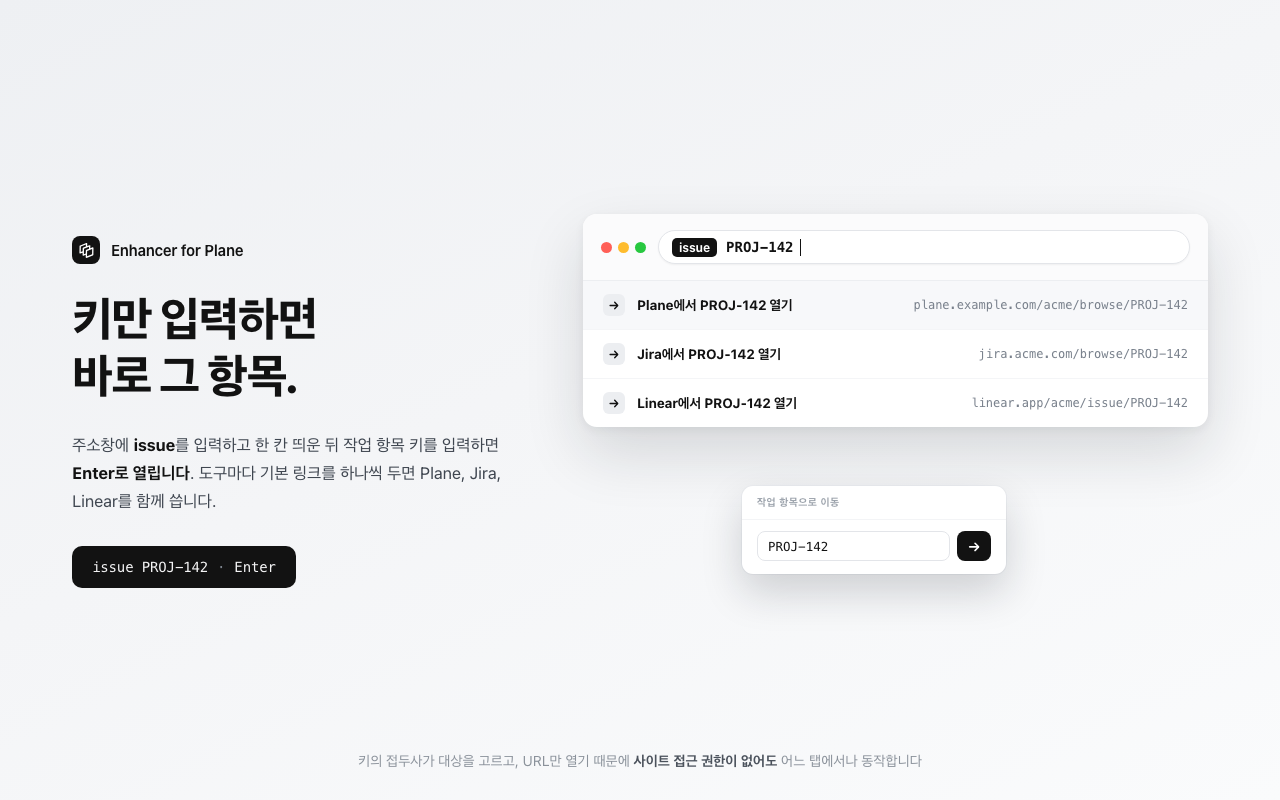
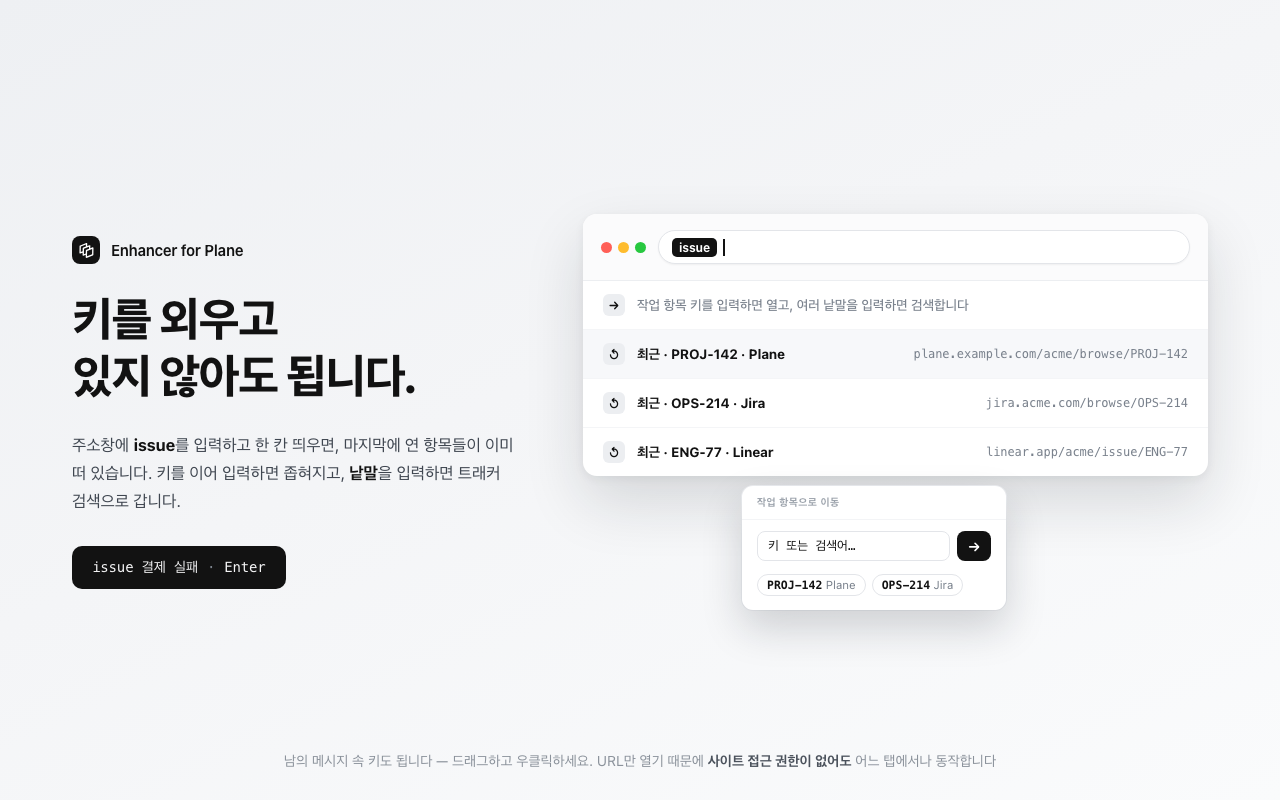
Redraw the quick open capture around what it actually offers
The store screenshots go out with 1.8.0 whether or not they are ever
photographed, so they have to describe the product as it is. The quick
open one did not, in a way I got wrong last turn: I said the copy-reference
capture was stale and it is not — its menu matches the live one row for
row. The quick open capture was the stale one, and worse than outdated. It
quoted "Open PROJ-142 in Plane", a string the extension stopped saying when
the omnibox rows were relabelled: it is "Open · PROJ-142 · Plane" now.

It also sold the weakest version of the feature — type a key you already
know, get three targets — while the release's three additions to that
exact surface went unmentioned anywhere in the set.

So the frame is now the moment the recents exist for: the keyword up, the
cursor waiting, nothing typed. Chrome draws the default suggestion first,
which is the hint — the one row that says a key opens and words search —
and under it the recent rows, exactly what recentRows() returns there. Both
quoted from the catalogue rather than written for the poster. The popup
panel grew its chips because the popup grew them. The pill shows the search
input instead of repeating the frame, and right-click gets the caption.

Along the way: omniboxRecent's second placeholder was named TITLE and
receives the target's name — the code passes [r.key, r.name]. Positional
substitution means it worked, but a translator reordering on that name
would be reordering on a lie. It is NAME now.
[…]

diff --git a/store-assets/screenshot-1-open.html b/store-assets/screenshot-1-open.html
@@ -99,6 +99,14 @@
     color: #121212;
     font-family: ui-monospace, SFMono-Regular, Menlo, monospace;
   }
+  /* The popup carries the same list, so the poster shows it there too. */
+  .chips { display: flex; flex-wrap: wrap; gap: 6px; padding: 0 15px 14px; }
+  .chip {
+    font-size: 11.5px; color: #79818c; border: 1px solid #e3e5e9;
+    border-radius: 999px; padding: 3px 9px;
+  }
+  .chip b { color: #121212; font-weight: 650; font-family: ui-monospace, SFMono-Regular, Menlo, monospace; }
+  .sugg .row.hint .sname { color: #79818c; font-weight: 500; }
   .jumpgo {
     width: 34px;
     height: 30px;
@@ -117,33 +125,40 @@
   <div class="brand"></div>
   <h1 data-t="head"></h1>
   <p class="lede" data-t="lede"></p>
-  <div class="pill">issue PROJ-142<span class="dot">·</span>Enter</div>
+  <div class="pill"><span data-t="pill"></span><span class="dot">·</span>Enter</div>
 </div>
 
 <div class="win">
   <div class="bar">
     <div class="omni">
       <span class="kw">issue</span>
-      <span class="typed">PROJ-142</span>
       <span class="caret"></span>
     </div>
   </div>
   <div class="page">
     <div class="sugg">
-      <div class="row on">
+      <!-- Chrome draws the default suggestion first, and with nothing typed that is the
+           hint — the one row that says a key opens and words search. Quoted from
+           omniboxHint. The rows under it are recentRows(), which is what the extension
+           offers at exactly this moment: the keyword is up and the cursor is waiting. -->
+      <div class="row hint">
         <span class="go">→</span>
+        <span class="sname" data-t="hint"></span>
+      </div>
+      <div class="row on">
+        <span class="go">↺</span>
         <span class="sname" data-t="s1"></span>
         <span class="surl">plane.example.com/acme/browse/PROJ-142</span>
       </div>
       <div class="row">
-        <span class="go">→</span>
+        <span class="go">↺</span>
         <span class="sname" data-t="s2"></span>
-        <span class="surl">jira.acme.com/browse/PROJ-142</span>
+        <span class="surl">jira.acme.com/browse/OPS-214</span>
       </div>
       <div class="row">
-        <span class="go">→</span>
+        <span class="go">↺</span>
         <span class="sname" data-t="s3"></span>
-        <span class="surl">linear.app/acme/issue/PROJ-142</span>
+        <span class="surl">linear.app/acme/issue/ENG-77</span>
       </div>
     </div>
   </div>
@@ -152,8 +167,12 @@
 <div class="panel pop">
   <div class="head" data-t="popLabel"></div>
   <div class="jumprow">
-    <span class="jumpkey">PROJ-142</span>
+    <span class="jumpkey" data-t="jumpPh"></span>
     <span class="jumpgo">→</span>
+  </div>
+  <div class="chips">
+    <span class="chip"><b>PROJ-142</b> Plane</span>
+    <span class="chip"><b>OPS-214</b> Jira</span>
   </div>
 </div>
 
@@ -165,30 +184,37 @@
   // rather than invented, so the poster cannot promise a string the extension does not say.
   window.T = {
     en: {
-      head: "Type the key.<br />You are there.",
+      head: "You do not have to<br />remember the key.",
       lede:
-        "In the address bar type <b>issue</b>, a space, then the work item key — " +
-        "<b>Enter opens it</b>. One base link per tool, so Plane, Jira and Linear all work.",
-      s1: "Open PROJ-142 in Plane",
-      s2: "Open PROJ-142 in Jira",
-      s3: "Open PROJ-142 in Linear",
+        "In the address bar type <b>issue</b> and a space. The items you opened last are " +
+        "already there — keep typing a key to narrow them, or type <b>words</b> to search " +
+        "your tracker instead.",
+      hint: "Type a work item key to open it, or words to search",
+      pill: "issue checkout fails",
+      s1: "Recent · PROJ-142 · Plane",
+      s2: "Recent · OPS-214 · Jira",
+      s3: "Recent · ENG-77 · Linear",
       popLabel: "Go to work item",
+      jumpPh: "Key, or search…",
       caption:
-        "The key's prefix picks the target — and since it only opens a URL, it needs " +
-        "<b>no site access</b> and works on any tab"
+        "A key in someone else's message works too — select it and right-click. It only " +
+        "opens a URL, so it needs <b>no site access</b> and works on any tab"
     },
     ko: {
-      head: "키만 입력하면<br />바로 그 항목.",
+      head: "키를 외우고<br />있지 않아도 됩니다.",
       lede:
-        "주소창에 <b>issue</b>를 입력하고 한 칸 띄운 뒤 작업 항목 키를 입력하면 " +
-        "<b>Enter로 열립니다</b>. 도구마다 기본 링크를 하나씩 두면 Plane, Jira, Linear를 함께 씁니다.",
-      s1: "Plane에서 PROJ-142 열기",
-      s2: "Jira에서 PROJ-142 열기",
-      s3: "Linear에서 PROJ-142 열기",
+        "주소창에 <b>issue</b>를 입력하고 한 칸 띄우면, 마지막에 연 항목들이 이미 떠 있습니다. " +
+        "키를 이어 입력하면 좁혀지고, <b>낱말</b>을 입력하면 트래커 검색으로 갑니다.",
+      hint: "작업 항목 키를 입력하면 열고, 여러 낱말을 입력하면 검색합니다",
+      pill: "issue 결제 실패",
+      s1: "최근 · PROJ-142 · Plane",
+      s2: "최근 · OPS-214 · Jira",
+      s3: "최근 · ENG-77 · Linear",
       popLabel: "작업 항목으로 이동",
+      jumpPh: "키 또는 검색어…",
       caption:
-        "키의 접두사가 대상을 고르고, URL만 열기 때문에 <b>사이트 접근 권한이 없어도</b> " +
-        "어느 탭에서나 동작합니다"
+        "남의 메시지 속 키도 됩니다 — 드래그하고 우클릭하세요. URL만 열기 때문에 " +
+        "<b>사이트 접근 권한이 없어도</b> 어느 탭에서나 동작합니다"
     }
   };
 </script>

diff --git a/store-assets/STORE_LISTING.md b/store-assets/STORE_LISTING.md
@@ -78,11 +78,13 @@ Send a work item to a chat message, a pull request, or a branch name without ret
 The button beside its ID (or Alt/⌥+C) copies it in the format you pick — plain text, a Markdown link, a branch name — and every format is a row you can edit into your own.
 The preview in Settings is exactly what lands on the clipboard.
 Works from the item's own page and from the preview panel a list opens, so you never leave the list.
+Also from the toolbar popup whenever the tab you are on is a work item — that path reads the tab, not the page, so it works on any tracker you have a link for.
 
 📐 Read every name in full — width & style rules
 Plane cuts long names off in lists and dropdowns until you can't tell items apart.
 One "selector → property → value" rule forces any width (320px, 30rem) and names show completely.
 It's a generic CSS engine: target any element, and if Plane's class names change between versions, you just edit the selector.
+And Settings tells you when a rule has stopped matching anything, so a Plane redesign shows up as one line to fix instead of a feature that quietly went away.
 
 🧘 Just the description — focus mode
 Alt+Shift+F (⌥+⇧+F on macOS) hides the properties panel and the left navigation so the work item's body is what is left.
@@ -254,11 +256,13 @@ Plane 자체의 작업 항목 템플릿은 Pro 기능입니다.
 번호 옆 버튼(또는 Alt/⌥+C)이 원하는 형식으로 복사합니다 — 일반 텍스트, 마크다운 링크, 브랜치명 — 그리고 모든 형식은 직접 고쳐 쓸 수 있는 줄입니다.
 설정의 미리보기가 곧 클립보드에 담길 내용입니다.
 항목 자신의 화면에서도, 목록에서 열리는 미리보기 패널에서도 동작하므로 목록을 벗어날 필요가 없습니다.
+지금 탭이 작업 항목이면 툴바 팝업에서도 됩니다. 이 경로는 페이지가 아니라 탭을 읽기 때문에, 링크를 등록해 둔 트래커라면 어디서든 동작합니다.
 
 📐 이름을 온전히 보기 — 스타일 규칙
 Plane은 목록과 드롭다운에서 긴 이름을 잘라, 어느 항목인지 구분하기 어렵게 만듭니다.
 "선택자 → 속성 → 값" 규칙 하나로 원하는 폭(320px, 30rem)을 지정하면 이름이 온전히 보입니다.
 범용 CSS 엔진이라 어떤 요소든 대상이 되고, 버전이 바뀌어 클래스명이 달라져도 선택자만 고치면 됩니다.
+그리고 규칙이 아무것도 찾지 못하게 되면 설정이 알려 줍니다. Plane이 개편돼도 기능이 조용히 사라지는 대신 고칠 줄 하나로 드러납니다.
 
 🧘 본문만 남기기 — 집중 모드
 Alt+Shift+F(macOS는 ⌥+⇧+F)로 속성 패널과 왼쪽 내비게이션을 숨기면 작업 항목의 본문만 남습니다.
